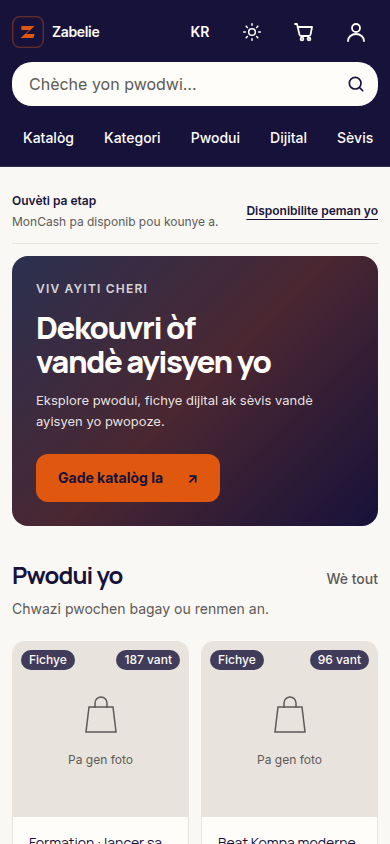
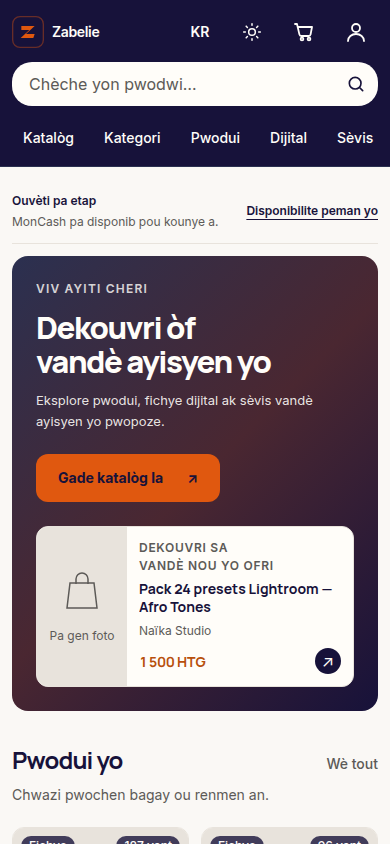
Accueil, premier écran — la carte vedette n'est plus masquée : son produit n'est dans aucune rangée
Correction de la PR elle-même, avant fusion. La première version masquait la
carte vedette sur mobile en la croyant redondante avec la rangée : faux,
`allocateHomeRows` exclut le produit vedette de toutes les rangées. Masqué, il
disparaissait de l'accueil mobile. Révélé en CI par
e2e/decouverte-sans-doublons (390 px : clic sur un lien invisible), reproduit
localement (390 rouge, 1 440 vert), vert après correction.

Reste la remontée de la rangée sous la bannière, mobile seulement. Mesuré :
première carte de la rangée 1 055 → 869 (375 × 812), 1 013 → 827
(390 × 844) ; ordinateur identique. Le produit visible au premier écran est la
carte vedette, comme avant : le gain réel est modeste (186 px).

Garde : P3 interdit de masquer la carte vedette et vérifie l'exclusion qui le
justifie. Deux mutations, deux rouges.

Claude-Session: https://claude.ai/code/session_01WyeCpiQik8vMBz27F8QAV1

Changed region(s): [[0.0308, 0.6161, 0.9846, 1.0]]

diff --git a/tests/home-premier-ecran.test.ts b/tests/home-premier-ecran.test.ts
@@ -9,9 +9,13 @@ import { readFileSync } from "node:fs";
  * commençait à y = 1 055 en 375 × 812 — en-tête, état des paiements, bannière
  * avec carte vedette, barre de confiance et « Eksplore òf yo » passaient devant.
  * Sur mobile, trois blocs marqués `.home-premier-ecran` (état des paiements,
- * bannière, première rangée) passent devant le reste ; la carte vedette, qui
- * répète un produit de la rangée, est masquée. Après : y = 684. L'ordre du
- * DOCUMENT ne bouge pas (lecteurs d'écran, ordinateur, test S8).
+ * bannière, première rangée) passent devant le reste. L'ordre du DOCUMENT ne
+ * bouge pas (lecteurs d'écran, ordinateur, test S8).
+ *
+ * ⚠ La carte vedette n'est PAS masquée. Une première version le faisait, en
+ * la croyant redondante avec la rangée : c'était faux — `allocateHomeRows`
+ * l'exclut de toutes les rangées. Masquée, ce produit disparaissait de
+ * l'accueil mobile ; c'est l'e2e `decouverte-sans-doublons` qui l'a révélé.
  */
 
 const page = readFileSync("app/page.tsx", "utf8").replace(/\{\/\*[\s\S]*?\*\/\}/g, "");
@@ -40,7 +44,12 @@ test("P2 — les règles qui remontent la rangée vivent DANS la requête mobile
   assert.match(m, /\.home-discovery #main\s*\{\s*display:\s*flex;\s*flex-direction:\s*column;\s*\}/);
   assert.match(m, /\.home-discovery #main > \*\s*\{\s*width:\s*100%;\s*\}/, "sans largeur, un `mx-auto` en colonne flex se réduit à son contenu");
   assert.match(m, /\.home-discovery #main > \.home-premier-ecran\s*\{\s*order:\s*-1;\s*\}/);
-  assert.match(m, /\.home-hero \.home-featured\s*\{\s*display:\s*none;\s*\}/);
   const horsMobile = css.replace(m, "");
   assert.doesNotMatch(horsMobile, /\.home-premier-ecran|#main\b/, "une règle du premier écran hors de la requête mobile toucherait l'ordinateur");
+});
+
+test("P3 — la carte vedette n'est masquée nulle part : son produit n'est dans aucune rangée", () => {
+  const src = readFileSync("app/page.tsx", "utf8");
+  assert.match(src, /allocateHomeRows\([\s\S]{0,900}\], featured \? \[featured\.id\] : \[\]\)/, "le produit vedette est exclu des rangées");
+  assert.doesNotMatch(css, /\.home-featured[^{]*\{[^}]*display:\s*none/, "masquer la carte vedette retirerait son produit de l'accueil");
 });

diff --git a/app/home-discovery.css b/app/home-discovery.css
@@ -83,12 +83,12 @@
      rangée) passent devant ; le reste suit dans l'ordre du document. Tous les
      blocs s'espacent par padding : rien ne dépend de la fusion des marges, que
      le flex supprime. `width: 100%` parce qu'un `mx-auto` en colonne flex se
-     réduirait à son contenu. La carte vedette disparaît : elle répète un
-     produit de la rangée, qui est désormais juste en dessous. */
+     réduirait à son contenu. La carte vedette RESTE : `allocateHomeRows`
+     l'exclut de toutes les rangées, la masquer retirerait ce produit de
+     l'accueil mobile (tests/home-premier-ecran P3). */
   .home-discovery #main { display: flex; flex-direction: column; }
   .home-discovery #main > * { width: 100%; }
   .home-discovery #main > .home-premier-ecran { order: -1; }
-  .home-hero .home-featured { display: none; }
   .home-discovery .home-hero { grid-template-columns: minmax(0, 1fr); gap: 24px; padding: 24px; }
   .home-kicker { margin-bottom: 12px; }
   .home-headline { font-size: 31px; max-width: 19ch; }

diff --git a/docs/home-premium/RAPPORT.md b/docs/home-premium/RAPPORT.md
@@ -64,22 +64,31 @@ en 375 × 812. Ce qui passait devant : en-tête 167 px (A2 visait ≤ 100),
 
 Choix fait par délégation (« fait le meilleur choix ») : **mobile seulement**,
 la première rangée passe juste sous la bannière, avant la confiance et
-« Eksplore òf yo » ; la carte vedette est masquée (elle répète un produit de
-la rangée). L'ordre du document ne change pas ; en-tête, bandeau des
+« Eksplore òf yo ». L'ordre du document ne change pas ; en-tête, bandeau des
 paiements et ordinateur non touchés.
 
-| Écran | Première carte, avant | Après |
+⚠ **Première version fausse, corrigée avant fusion.** Elle masquait aussi la
+carte vedette sur mobile, en la croyant redondante avec la rangée. C'est faux :
+`allocateHomeRows` exclut le produit vedette de toutes les rangées — masqué, il
+disparaissait de l'accueil mobile. L'e2e `decouverte-sans-doublons` l'a révélé
+en CI ; reproduit localement (390 px rouge, 1 440 vert), puis corrigé.
+`tests/home-premier-ecran.test.ts` P3 interdit désormais ce masquage.
+
+| Écran | Première carte de la rangée, avant | Après |
 |---|---|---|
-| 375 × 812 | y = 1 055 | **y = 684** (128 px de carte visibles) |
-| 390 × 844 | y = 1 013 | **y = 641** (203 px visibles) |
+| 375 × 812 | y = 1 055 | y = 869 (toujours sous l'écran) |
+| 390 × 844 | y = 1 013 | y = 827 (17 px visibles) |
 | 1 440 × 900 | y = 939 | y = 939 (identique, bloc par bloc) |
 
-⚠ **A1 reste partiel** : les cartes font ~350 px de haut, la rangée
-**entière** ne tiendra pas sous 812 tant que l'en-tête (167) et le bandeau des
-paiements (119) occupent 286 px. Sur ordinateur, la première carte commence
-aussi sous l'écran (y = 939 sur 900). Ces deux leviers restent au porteur.
-Captures : `a1-2026-09-26/avant-390.png`, `a1-2026-09-26/apres-390.png`.
-Garde : `tests/home-premier-ecran.test.ts` (six mutations, six rouges).
+Dans les deux cas, **un produit est visible au premier écran : la carte
+vedette** (y = 568 → 729 en 375 × 812), comme avant ce lot. Le gain réel est
+donc modeste : la rangée remonte de 186 px, juste sous la bannière.
+
+⚠ **A1 reste non tenu pour la rangée.** Les cartes font ~350 px de haut ;
+en-tête (167) et bandeau des paiements (119) occupent 286 px. Sur ordinateur
+aussi, la rangée commence sous l'écran (y = 939 sur 900). Ces leviers restent
+au porteur. Captures : `a1-2026-09-26/avant-390.png`,
+`a1-2026-09-26/apres-390.png`.
 
 ## Avant / après
 
